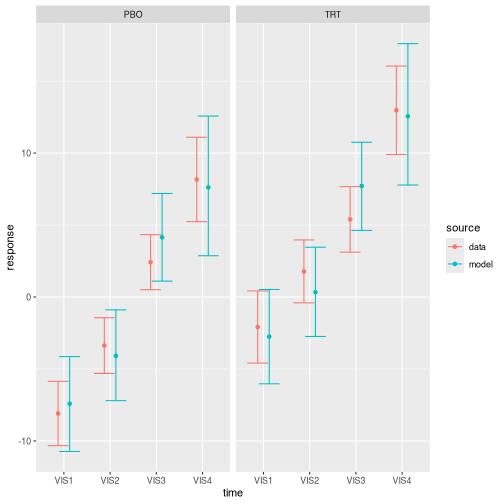
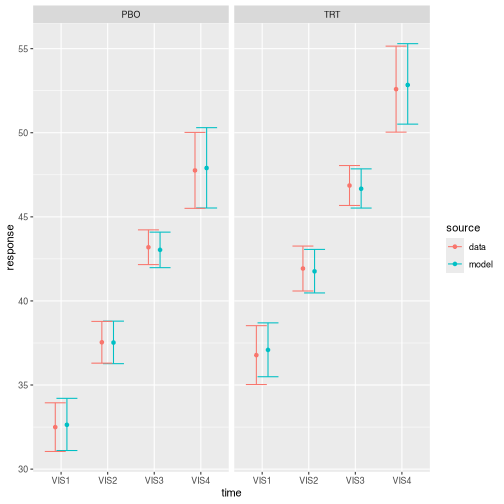
brm_marginal_grid()

diff --git a/NEWS.md b/NEWS.md
@@ -1,6 +1,7 @@
-# brms.mmrm 1.0.1.9000 (development)
+# brms.mmrm 1.0.1.9001 (development)
 
-
+* Add `brm_marginal_grid()`.
+* Show posterior samples of `sigma` in `brm_marginal_draws()` and `brm_marginal_summaries()`.
 
 # brms.mmrm 1.0.1
 
